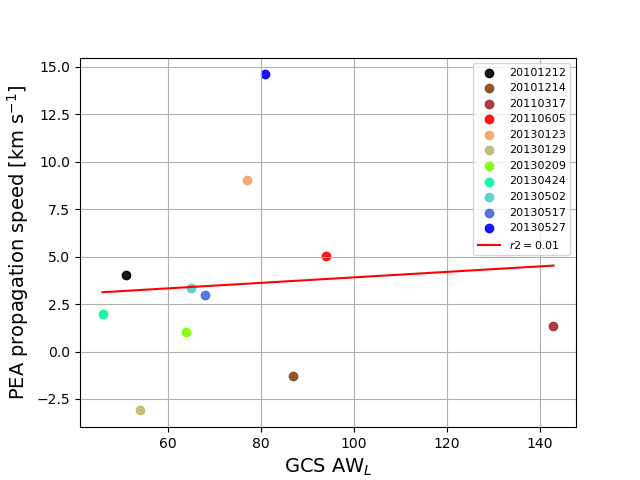
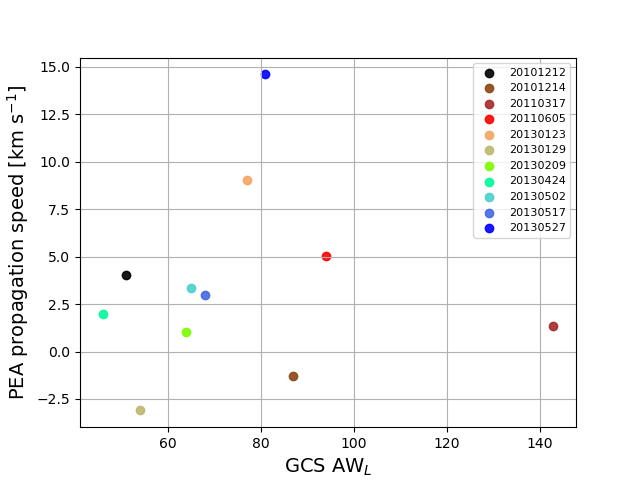
new plots by Hebe

Changed region(s): [[0.3438, 0.5625, 0.75, 0.5938], [0.75, 0.5, 0.875, 0.5625], [0.1562, 0.5938, 0.3438, 0.625]]

diff --git a/tools/cremades/compare_all_prop_hebe.py b/tools/cremades/compare_all_prop_hebe.py
@@ -113,8 +113,8 @@ os.makedirs(opath, exist_ok=True)
 
 # set requiered plots
 plot_tilt = False
-gcs_lat_axial_ratio_vs_length_over_width_fit_vel = True
-gcs_awl_awd_ratio_vs_length_width_fit_vel_ratio = True
+pea_prop_speed_over_pea_sep_speed_vs_gcs_lat_vel_over_gcs_axial_vel = True
+pea_prop_sep_speed_ratio_vs_gcs_awl_awd_ratio = True
 pea_prop_speed_vs_gcs_awl = True
 pea_sep_speed_vs_gcs_awd = True
 #lista de CMEs que no deben plotearse
@@ -206,14 +206,14 @@ if plot_tilt:
 
 
 #------------------------------------------------------------------------------------------------------
-# plots gcs lat vel / gcs axial vel VS length fit vel/ width fit vel
+# plots PEA propagation speed/PEA separation speed VS. GCS lat vel / gcs axial vel  ---> Done Hebe
 # y vs x
 ajuste_lineal = True
-if gcs_lat_axial_ratio_vs_length_over_width_fit_vel:
+if pea_prop_speed_over_pea_sep_speed_vs_gcs_lat_vel_over_gcs_axial_vel:
     df_ar['datetimes'] = pd.to_datetime(df_ar['Date'], format='%d/%m/%Y')
     all_x=[]
     all_y=[]
-    colors = ['k','saddlebrown','brown','r','sandybrown','forestgreen','lime','g','c','b','mediumblue','midnightblue']
+    colors = ['k','saddlebrown','brown','r','sandybrown','darkkhaki','lawngreen','mediumspringgreen','mediumturquoise','royalblue','b','mediumblue']
     labels = ['20101212','20101214','20110317','20110605','20130123','20130129','20130209','20130424','20130502','20130517','20130527','20130608']
     for d in df_ar['datetimes']:
         d_str = d.strftime('%Y%m%d')
@@ -249,8 +249,8 @@ if gcs_lat_axial_ratio_vs_length_over_width_fit_vel:
 
     fig,ax = plt.subplots()
     #ejes y titulo
-    ax.set_xlabel('gcs lat vel / gcs axial vel', fontsize=16)
-    ax.set_ylabel('arcade length fit vel /width fit vel', fontsize=16)
+    ax.set_xlabel('GCS lateral (L) speed / GCS axial (D) speed', fontsize=16)
+    ax.set_ylabel('PEA prop. speed / PEA sep. speed', fontsize=16)
     ax.set_title('Title', fontsize=18)
     for contador in range(len(all_x_filtered)):
         ax.scatter(all_x_filtered[contador],all_y_filtered[contador],c=colors_filtered[contador],label=labels_filtered[contador],alpha=0.9)
@@ -260,13 +260,13 @@ if gcs_lat_axial_ratio_vs_length_over_width_fit_vel:
         ax.plot(x_axis, intercept + slope*x_axis, 'r', label=f'$r2 = {r_square:.2f}$')
     ax.legend(loc="upper right", prop={'size': 8})
     ax.grid(True)
-    plt.savefig(opath+'/gcs_lat_axial_ratio_vs_length_over_width_fit_vel.png')
+    plt.savefig(hpath+'/pea_prop_speed_over_pea_sep_speed_vs_gcs_lat_vel_over_gcs_axial_vel.png')
     plt.close()
 
 #------------------------------------------------------------------------------------------------------
-# plots PEA propagation speed vs. GCS AW_L for each date  -->being done by Hebe
+# plots PEA propagation speed vs. GCS AW_L for each date  --> Done Hebe
 if pea_prop_speed_vs_gcs_awl:
-    ajuste_lineal1 = True
+    ajuste_lineal1 = False
 
     df_ar['datetimes'] = pd.to_datetime(df_ar['Date'], format='%d/%m/%Y')
     all_x=[]
@@ -318,7 +318,7 @@ if pea_prop_speed_vs_gcs_awl:
     plt.close()
 
 #------------------------------------------------------------------------------------------------------
-# plots PEA separation speed vs. GCS AW_D for each date ---> listo hebe
+# plots PEA separation speed vs. GCS AW_D for each date ---> Done hebe
 if pea_sep_speed_vs_gcs_awd:
     ajuste_lineal2 = False
 
@@ -372,14 +372,14 @@ if pea_sep_speed_vs_gcs_awd:
     plt.close()
 
 #------------------------------------------------------------------------------------------------------
-# plots gcs awl /gcs awd VS arcade length / arcade width fit for each date
-if gcs_awl_awd_ratio_vs_length_width_fit_vel_ratio:
+# plots PEA propagation speed / PEA separation speed VS GCS AW_L vs. GCS AW_D for each date
+if pea_prop_sep_speed_ratio_vs_gcs_awl_awd_ratio:
     ajuste_lineal3 = True
 
     df_ar['datetimes'] = pd.to_datetime(df_ar['Date'], format='%d/%m/%Y')
     all_x=[]
     all_y=[]
-    colors = ['k','saddlebrown','brown','r','sandybrown','forestgreen','lime','g','c','b','mediumblue','midnightblue']
+    colors = ['k','saddlebrown','brown','r','sandybrown','darkkhaki','lawngreen','mediumspringgreen','mediumturquoise','royalblue','b','mediumblue']
     labels = ['20101212','20101214','20110317','20110605','20130123','20130129','20130209','20130424','20130502','20130517','20130527','20130608']
     for d in df_ar['datetimes']:
         d_str = d.strftime('%Y%m%d')
@@ -412,8 +412,8 @@ if gcs_awl_awd_ratio_vs_length_width_fit_vel_ratio:
 
     fig,ax = plt.subplots()
     #ejes y titulo
-    ax.set_xlabel('gcs awl / gcs awd', fontsize=16)
-    ax.set_ylabel('arcade length fit vel / arcade width fit vel ', fontsize=16)
+    ax.set_xlabel('GCS AW$_L$ / GCS AW$_D$', fontsize=14)
+    ax.set_ylabel('PEA prop. speed / PEA sep. speed ', fontsize=14)
     ax.set_title('Title', fontsize=18)
     for contador in range(len(all_x_filtered)):
         ax.scatter(all_x_filtered[contador],all_y_filtered[contador],c=colors_filtered[contador],label=labels_filtered[contador],alpha=0.9)
@@ -423,5 +423,5 @@ if gcs_awl_awd_ratio_vs_length_width_fit_vel_ratio:
         ax.plot(x_axis, intercept + slope*x_axis, 'r', label=f'$r2 = {r_square:.2f}$')
     ax.legend(loc="upper right", prop={'size': 8})
     ax.grid(True)
-    plt.savefig(opath+'/gcs_awl_awd_ratio_vs_length_width_fit_vel_ratio.png')
+    plt.savefig(hpath+'/pea_prop_sep_speed_ratio_vs_gcs_awl_awd_ratio')
     plt.close()
